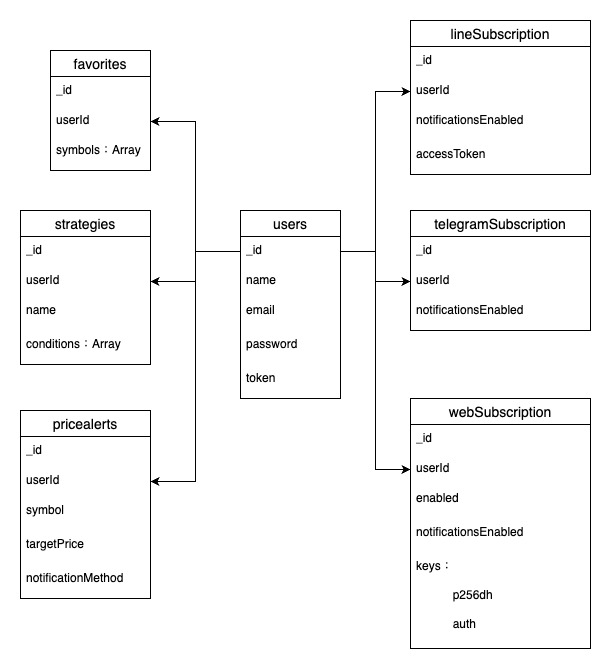
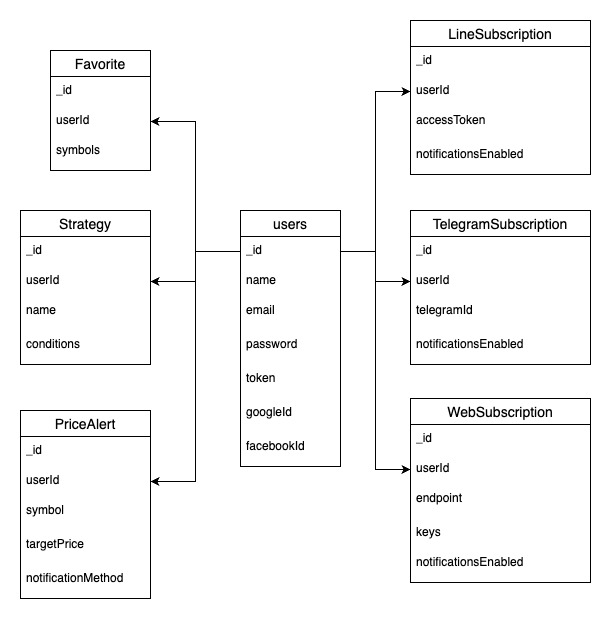
README修改

diff --git a/models/priceAlertSchema.js b/models/priceAlertSchema.js
@@ -2,30 +2,25 @@
 
 const mongoose = require("mongoose");
 
-const priceAlertSchema = new mongoose.Schema(
-  {
-    userId: {
-      type: mongoose.Schema.Types.ObjectId,
-      ref: "User",
-      required: true,
-    },
-    symbol: {
-      type: String,
-      required: true,
-    },
-    targetPrice: {
-      type: Number,
-      required: true,
-    },
-    notificationMethod: {
-      type: String,
-      required: true,
-      enum: ["Telegram", "Web", "Line"],
-    },
+const priceAlertSchema = new mongoose.Schema({
+  userId: {
+    type: mongoose.Schema.Types.ObjectId,
+    ref: "User",
+    required: true,
   },
-  {
-    timestamps: true,
-  }
-);
+  symbol: {
+    type: String,
+    required: true,
+  },
+  targetPrice: {
+    type: Number,
+    required: true,
+  },
+  notificationMethod: {
+    type: String,
+    required: true,
+    enum: ["Telegram", "Web", "Line"],
+  },
+});
 
 module.exports = mongoose.model("PriceAlert", priceAlertSchema);

diff --git a/views/index.html b/views/index.html
@@ -1326,7 +1326,7 @@
           style="display: none"
         >
           <div id="tradingview_0aab0"></div>
-          <div>※部分『季度合約』、『BUSD交易對』不支援</div>
+          <div>※ 部分交易對不支援圖表功能</div>
           <script
             type="text/javascript"
             src="https://s3.tradingview.com/tv.js"

diff --git a/README.md b/README.md
@@ -2,7 +2,7 @@
 
 ### Crypto Sniper 是一個協助投資人透過均線的篩選，找出標的的一項工具
 
-製作這項工具的原因：因為 Trading View 的篩選功能不夠客製化，也沒有支援多重時框，所以就決定自己做一個，後來 Trading View 改版，免費版本的到價通知以及追蹤清單這兩項功能也有使用上的限制，所以就又額外開發這兩項功能，其實很單純，我會用到什麼功能就去開發，如果有想要新增什麼功能也歡迎跟我討論，謝謝。
+製作這項工具的緣由：因為 Trading View 的篩選功能不夠客製化，也沒有支援多重時框的篩選功能，所以就決定自己做一個，後來 Trading View 改版，免費版本的到價通知以及追蹤清單這兩項功能也有使用上的限制，所以就又額外開發這兩項功能，理由很單純，我會用到什麼功能就去開發，如果有想要新增什麼功能也歡迎跟我討論，謝謝。
 
 1. 透過均線的篩選找出標的，且支援多重時框篩選功能
 2. 三種類型的即時報價通知，分別為 Web、Telegram、Line
@@ -23,7 +23,8 @@
 
 ## 資料庫架構
 
-![系統架構圖](public/images/資料庫.jpg)
+![MongoDB](public/images/資料庫.jpg)
+![Redis](public/images/redis架構.jpg)
 
 ## 聯絡我
 
